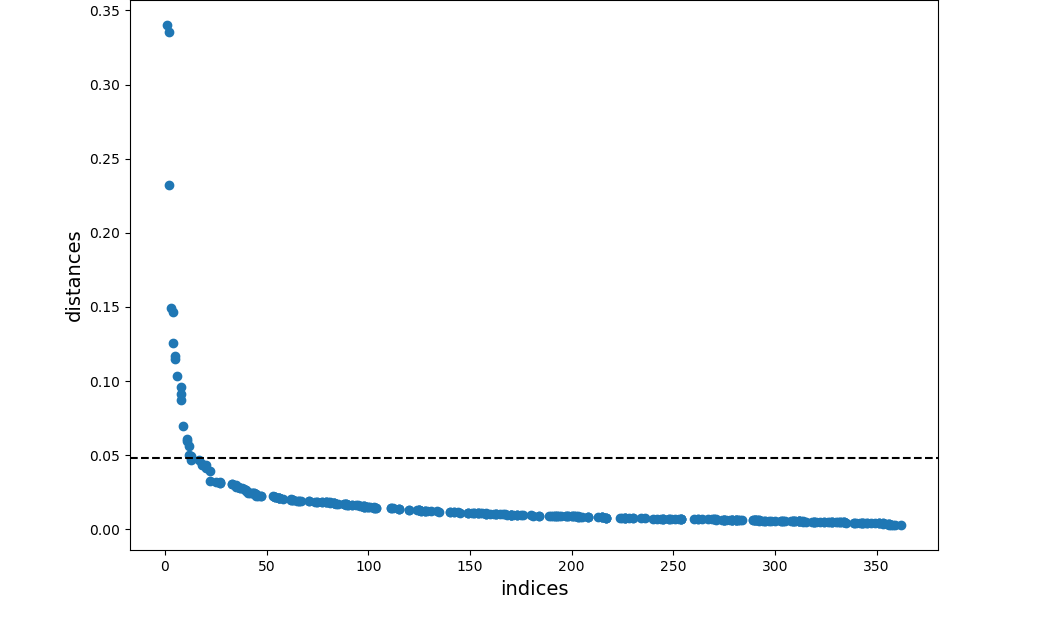
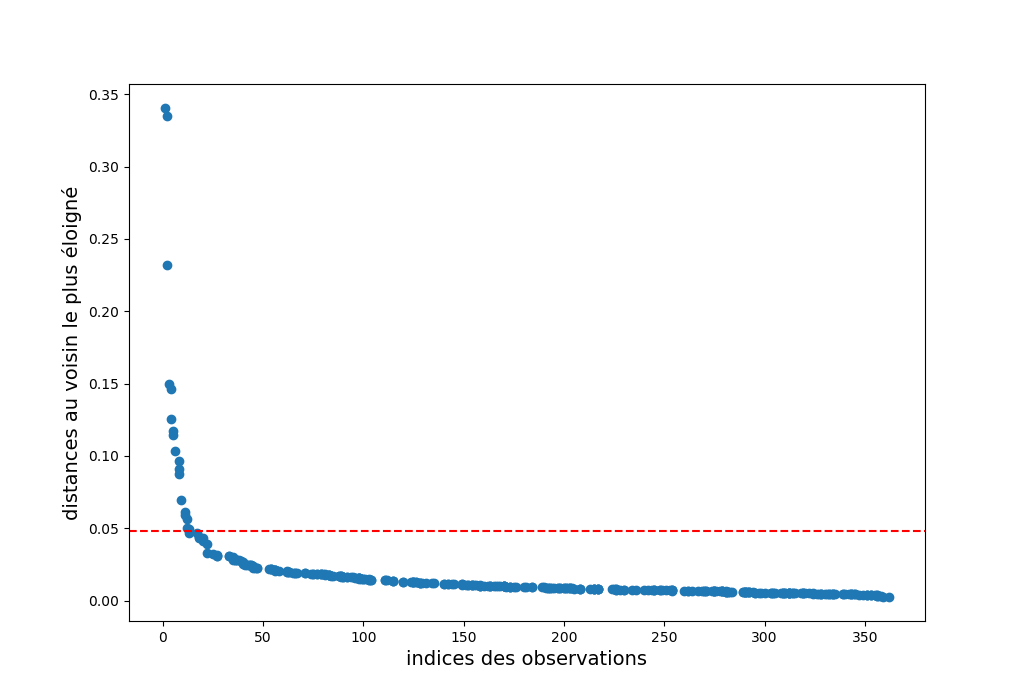
precisions added in methods + figures updated

diff --git a/chapter_4.tex b/chapter_4.tex
@@ -340,9 +340,9 @@ Si le nombre de composantes $K$ est connu, la technique d'\gls{em} est la plus c
 cherche à maximiser la probabilité, ou \textit{likelihood}, des données observéees étant donné les paramètres du modèle. Dans le cas des \textit{mixture models}, \gls{em}
 consiste en deux étapes :
 \begin{enumerate}
-\item L'étape d'\textit{expectation} : calcul de l'\textit{expectation} de la composante $C_k$ pour chaque point $x_i \in X$ étant donné les paramètres du modèle $\Phi_k$, $\sigma_k$,
+\item Etape d'\textit{expectation} : calcul de l'\textit{expectation} de la composante $C_k$ pour chaque point $x_i \in X$ étant donné les paramètres du modèle $\Phi_k$, $\sigma_k$,
 et $\mu_k$. L'\textit{expectation} correspond à la probabilité qu'$x_i$ soit généré par la composante $C_k$,
-\item L'étape de \textit{maximization} : maximisation des \textit{expectations} calculées à la première étape afin de mettre à jour les valeurs $\Phi_k$, $\sigma_k$,
+\item Etape de \textit{maximization} : maximisation des \textit{expectations} calculées à la première étape afin de mettre à jour les valeurs $\Phi_k$, $\sigma_k$,
 et $\mu_k$. 
 \end{enumerate}
 
@@ -385,18 +385,28 @@ d'autre part sont des \textit{clusters} similaires et sont donc fusionnés. Il r
 	\label{Figure:tbr_hierarchical_agglomerative_clustering_example} 
 \end{figure}
 
-Plusieurs méthodes existent pour quantifier la proximité de deux \textit{clusters}, ici on se base sur la méthode de Ward qui minimise la variance des deux groupes qui sont en train
-d'être fusionnés.
+Plusieurs méthodes existent pour quantifier la proximité de deux \textit{clusters}, ici on se base sur la méthode de Ward qui minimise 
+la variance des deux groupes qui sont fusionnés fusionnés \citep{Ward1963}.
 
 Le nombre de clusters estimé par cette méthode varie de 1 à 3 pour comparer les résultats obtenus à ceux du \gls{bgmm}. Les \textit{clusters}
 identifiés par la méthode de Ward sont notamment représentés par dendrogramme où les traits verticaux correspondent à la distance de Ward entre 
-deux \textit{clusters} : plus ces traits sont grands, plus les clusters son différents.
+deux \textit{clusters} : plus ces traits sont grands, plus les clusters sont différents.
 
 \subsubsection{Partitionnement basé sur les densités : DBSCAN}
 \gls{dbscan} est un algorithme de partitionnement de données qui s'appuie sur la densité des \textit{clusters} estimés \citep{Ester1996}. 
 Deux paramètres sont nécessaires pour permettre à l'algorithme de partitionner la donnée : la distance $\epsilon$ et le nombre minimum de points 
-$MinPts$ devant se trouver dans un rayon $\epsilon$ pour que ces points forment un \textit{cluster}. 
-Le choix du $MinPts$ peut se faire grâce une méthode heuristique :
+$MinPts$ devant se trouver dans un rayon $\epsilon$ pour que ces points forment un \textit{cluster}.
+ 
+Pour un point donné, l'algorithme récupère son voisinage dans un rayon $\epsilon$ et vérifie qu'il contient bien au moins $MinPt$s points, auquel cas, 
+ce point est alors considéré comme faisant partie d'un \textit{cluster}. On parcourt ensuite le voisinage 
+dans un rayon $\epsilon$ de proche en proche afin de trouver l'ensemble des points du \textit{cluster}.
+
+Afin de choisir les valeurs des paramètres $\epsilon$ et $MinPts$, la topologie de l'espace à partitionner est à prendre en compte. En effet, une 
+trop faible valeur de $\epsilon$  et/ou une trop grande valeur de$MinPts$ peuvent empêcher 
+l'algorithme de propager les clusters. A l'inverse, une trop grande valeur pour $\epsilon$  
+et/ou une trop faible valeur pour $MinPts$ peuvent conduire l'algorithme à ne renvoyer que du bruit. 
+ 
+Ici, $MinPts$ est déterminé grâce une méthode heuristique \citep{Birant2007} :
 \begin{equation}
 \label{eq:tbr_dbscan}
 MinPts = ln(\text{n}),
@@ -404,11 +414,22 @@ MinPts = ln(\text{n}),
 avec n le nombre total de points à être partitionnés.
 
 Une méthode pour déterminer la valeur $\epsilon$ optimale est de tracer le graphique des \textit{k-distance} obtenu par la méthode des k plus proches voisins 
-(\gls{knn} en anglais) non supervisée en prenant $k = MinPts$ \citep{James2013, Goldberger2005}. Le principe de cette méthode
+(\gls{knn} en anglais) non supervisée en prenant $k = MinPts$ \citep{James2013, Goldberger2005, Ester1996}. Le principe de cette méthode
 est de trouver un nombre prédéfini d'observations, noté k, les plus proches en distance (ici de Minkowski) d'un nouveau point et de prédire la classe de ce dernier. 
-Le graphique des distances k (\textit{k-distance plot} en anglais) représente les distances de chaque observation à un des k points classées par ordre décroissant. 
+
+Le graphique des distances k (\textit{k-distance plot} en anglais) représente les distances de chaque observation à son voisin le plus éloigné 
+lors du partitionnement par \gls{knn}. Les distances obtenues sont ensuite classées par ordre décroissant. 
 Ainsi, étant donné que les points bruités sont censés avoir une \textit{k-distance} bien plus élevée que celle des autres points, on peut 
-s'attendre à observer un coude sur ce tracé : l'ordonnée de ce point correspond à $\epsilon$.
+s'attendre à observer un changement de pente, un "coude", sur ce tracé : l'ordonnée de ce point correspond à $\epsilon$. Un \textit{k-distance plot}
+obtenu sur des données factices est présenté à la Figure~\ref{Figure:tbr_k_distance_plot_example} pour illustrer comment est déterminé $\epsilon$. 
+
+\begin{figure}[h!]
+  \centering
+	\includegraphics[width=0.7\linewidth]{figures/chapter-4/tbr-k-distance-plot-example} 
+  \caption{Exemple de \textit{k-distance plot} sur des données factices. Les observations ayant une \textit{k-distance} élevée sont potentiellement
+	des outliers. L'observation représentée par une croix rouge correspond au "coude" dont l'abscisse correspond à $\epsilon$.} 
+	\label{Figure:tbr_k_distance_plot_example} 
+\end{figure}
 
 Le \textit{silhouette coefficient} est utilisé pour rendre compte de la qualité du partitionnement : -1 est la pire valeur, 1 la meilleure et 0
 correspond à des \textit{clusters} qui se superposent.
@@ -506,7 +527,7 @@ Les résultats des \gls{bgmm} avec un nombre de composantes allant de 1 à 3 son
 	\includegraphics[width=1.0\linewidth]{figures/chapter-4/tbr-bgmm} 
   \caption{Tracés des distributions de \gls{srntbr} (\textit{rug plot}) avec \textbf{A)} 1-mode, \textbf{B)} 2-modes et \textbf{C)} 3-modes du \gls{bgmm} superposés. $P$-value (1-2) correspond
 	à la $p$-value du test de déviance comparant les \gls{bgmm} à 1 mode et 2 modes ; $p$-value (2-3) correspond à la $p$-value du test de déviance comparant les \gls{bgmm}
-	à 2 modes et 3 modes. Significativité symbolisée par ** (seuil fixé à 0.01). Le seuil \gls{srntbr} est précisé pour le modèle à 2 composantes et représenté par un cercle rouge.}
+	à 2 modes et 3 modes. Significativité symbolisée par ** (seuil fixé à 0.01). Le seuil \gls{srntbr} est précisé pour le modèle à 2 composantes et représenté par un cercle bleu.}
   \label{Figure:tbr_bgmm} 
 \end{figure}
 
@@ -520,37 +541,38 @@ entre le modèle à 1 mode (modèle nul) et à 2 modes = 0.002). Ainsi, les \tex
 représenter la donnée. 
 
 \subsubsection{Méthode de Ward}
-Tout d'abord, les résultats d'un partitionnement suivant la méthode de Ward sont représentés sur le dendrogramme présenté à la 
+Tout d'abord, les résultats d'un partitionnement hiérarchique agglomérant basé sur la distance de Ward sont représentés sur le dendrogramme présenté à la 
 Figure~\ref{Figure:tbr_ward_dendrogram}. 
 
 \begin{figure}[h!]
   \centering
-	\includegraphics[width=0.5\linewidth]{figures/chapter-4/tbr-dendrogram-ward} 
+	\includegraphics[width=0.7\linewidth]{figures/chapter-4/tbr-dendrogram-ward} 
   \caption{Dendrogramme représentant le partitionnement obtenu suivant la méthode de Ward. Tous les liens connectant des noeuds avec des distances plus 
-	grandes ou égales à un seuil fixé à 6 sont colorés en bleu. Les deux clusters définis par les deux noeuds en dessous de ce seuil de 6 sont colorés différemment.}
+	grandes ou égales à un seuil fixé arbitrairement à 6 sont colorés en bleu. Les deux clusters définis par les deux noeuds en dessous de ce seuil de 6 sont colorés différemment.}
   \label{Figure:tbr_ward_dendrogram}
 \end{figure}
 
 Cette représentation permet de supposer que les données pourraient être séparées en 2 \textit{clusters} (en rouge et vert) 
-mais aussi en 3 (2 verts et 1 rouge). Les résultats d'un partitionnement en 2 et 3 \textit{clusters} sont représentés à la Figure~\ref{Figure:tbr_ward_histograms}.
+mais aussi en 3 (2 verts et 1 rouge). Les résultats d'un partitionnement en 2 et 3 \textit{clusters} sont représentés 
+à la Figure~\ref{Figure:tbr_ward_histograms}.
 
 \begin{figure}[h!]
   \centering
 	\includegraphics[width=1.0\linewidth]{figures/chapter-4/tbr-histogram-ward} 
-  \caption{Distribution des \gls{srntbr} répartis en \textbf{A)} : 2 \textit{clusters} (rouge et jaune) et \textbf{B)} : 3 \textit{clusters} 
-	(vert, rouge et jaune). Le seuil séparant la distribution des \gls{srntbr} en deux groupes est représenté par la ligne verticale en pointillés rouges sur la 
+  \caption{Distribution des \gls{srntbr} répartis en \textbf{A)} : 2 \textit{clusters} (vert et rouge) et \textbf{B)} : 3 \textit{clusters} 
+	(vert, rouge et orange). Le seuil séparant la distribution des \gls{srntbr} en deux groupes est représenté par la ligne verticale en pointillés bleus sur la 
 	figure \textbf{A}.}
   \label{Figure:tbr_ward_histograms}
 \end{figure}
 
-Dans le cas du partitionnement en 3 groupes, le groupe des \gls{srntbr} élevés est toujours identifié (en jaune), le troisième groupe est formé dans 
+Dans le cas du partitionnement en 3 groupes, le groupe des \gls{srntbr} élevés est toujours identifié (en rouge), le troisième groupe est formé dans 
 la sous population des \gls{srntbr} plus faibles. 
 
 \subsubsection{DBSCAN}
 
 Les paramètres $MinPts$ et $\epsilon$ de l'algorithme \gls{dbscan} sont tout d'abord calculés. Etant donné qu'ici $MinPts = 6$, 
-l'algorithme des \gls{knn} prend $k = 6$, on obtient alors le graphique des distances k présenté à la Figure~\ref{Figure:tbr_dbscan_kdistance_plot}, 
-où un coude est observé à $y = 0.048$, valeur choisie pour $\epsilon$.
+l'algorithme des \gls{knn} prend $k = 6$ : on obtient alors le graphique des distances k présenté à la Figure~\ref{Figure:tbr_dbscan_kdistance_plot}, 
+où un coude est observé à $y = 0.048$ (valeur déterminée visuellemennt), valeur choisie pour $\epsilon$.
 
 \begin{figure}[h!]
   \centering
@@ -561,7 +583,7 @@ où un coude est observé à $y = 0.048$, valeur choisie pour $\epsilon$.
 
 Le partitionnement par \gls{dbscan} est représenté à Figure~\ref{Figure:tbr_dbscan_clustering_plot} : deux groupes (en rouge et jaune) et 13 
 points considérés comme du bruit et donc attribués à aucun groupe (en noir) sont identifiés. Le \textit{silhouette coefficient} de $\text{s} = 0.388$
-indique un partitionnement convenable mais dont les groupes sont proches l'un de l'autre. 
+indique un partitionnement convenable, car plus grande que 0, mais dont les groupes sont proches l'un de l'autre. 
 
 \begin{figure}[h!]
   \centering
